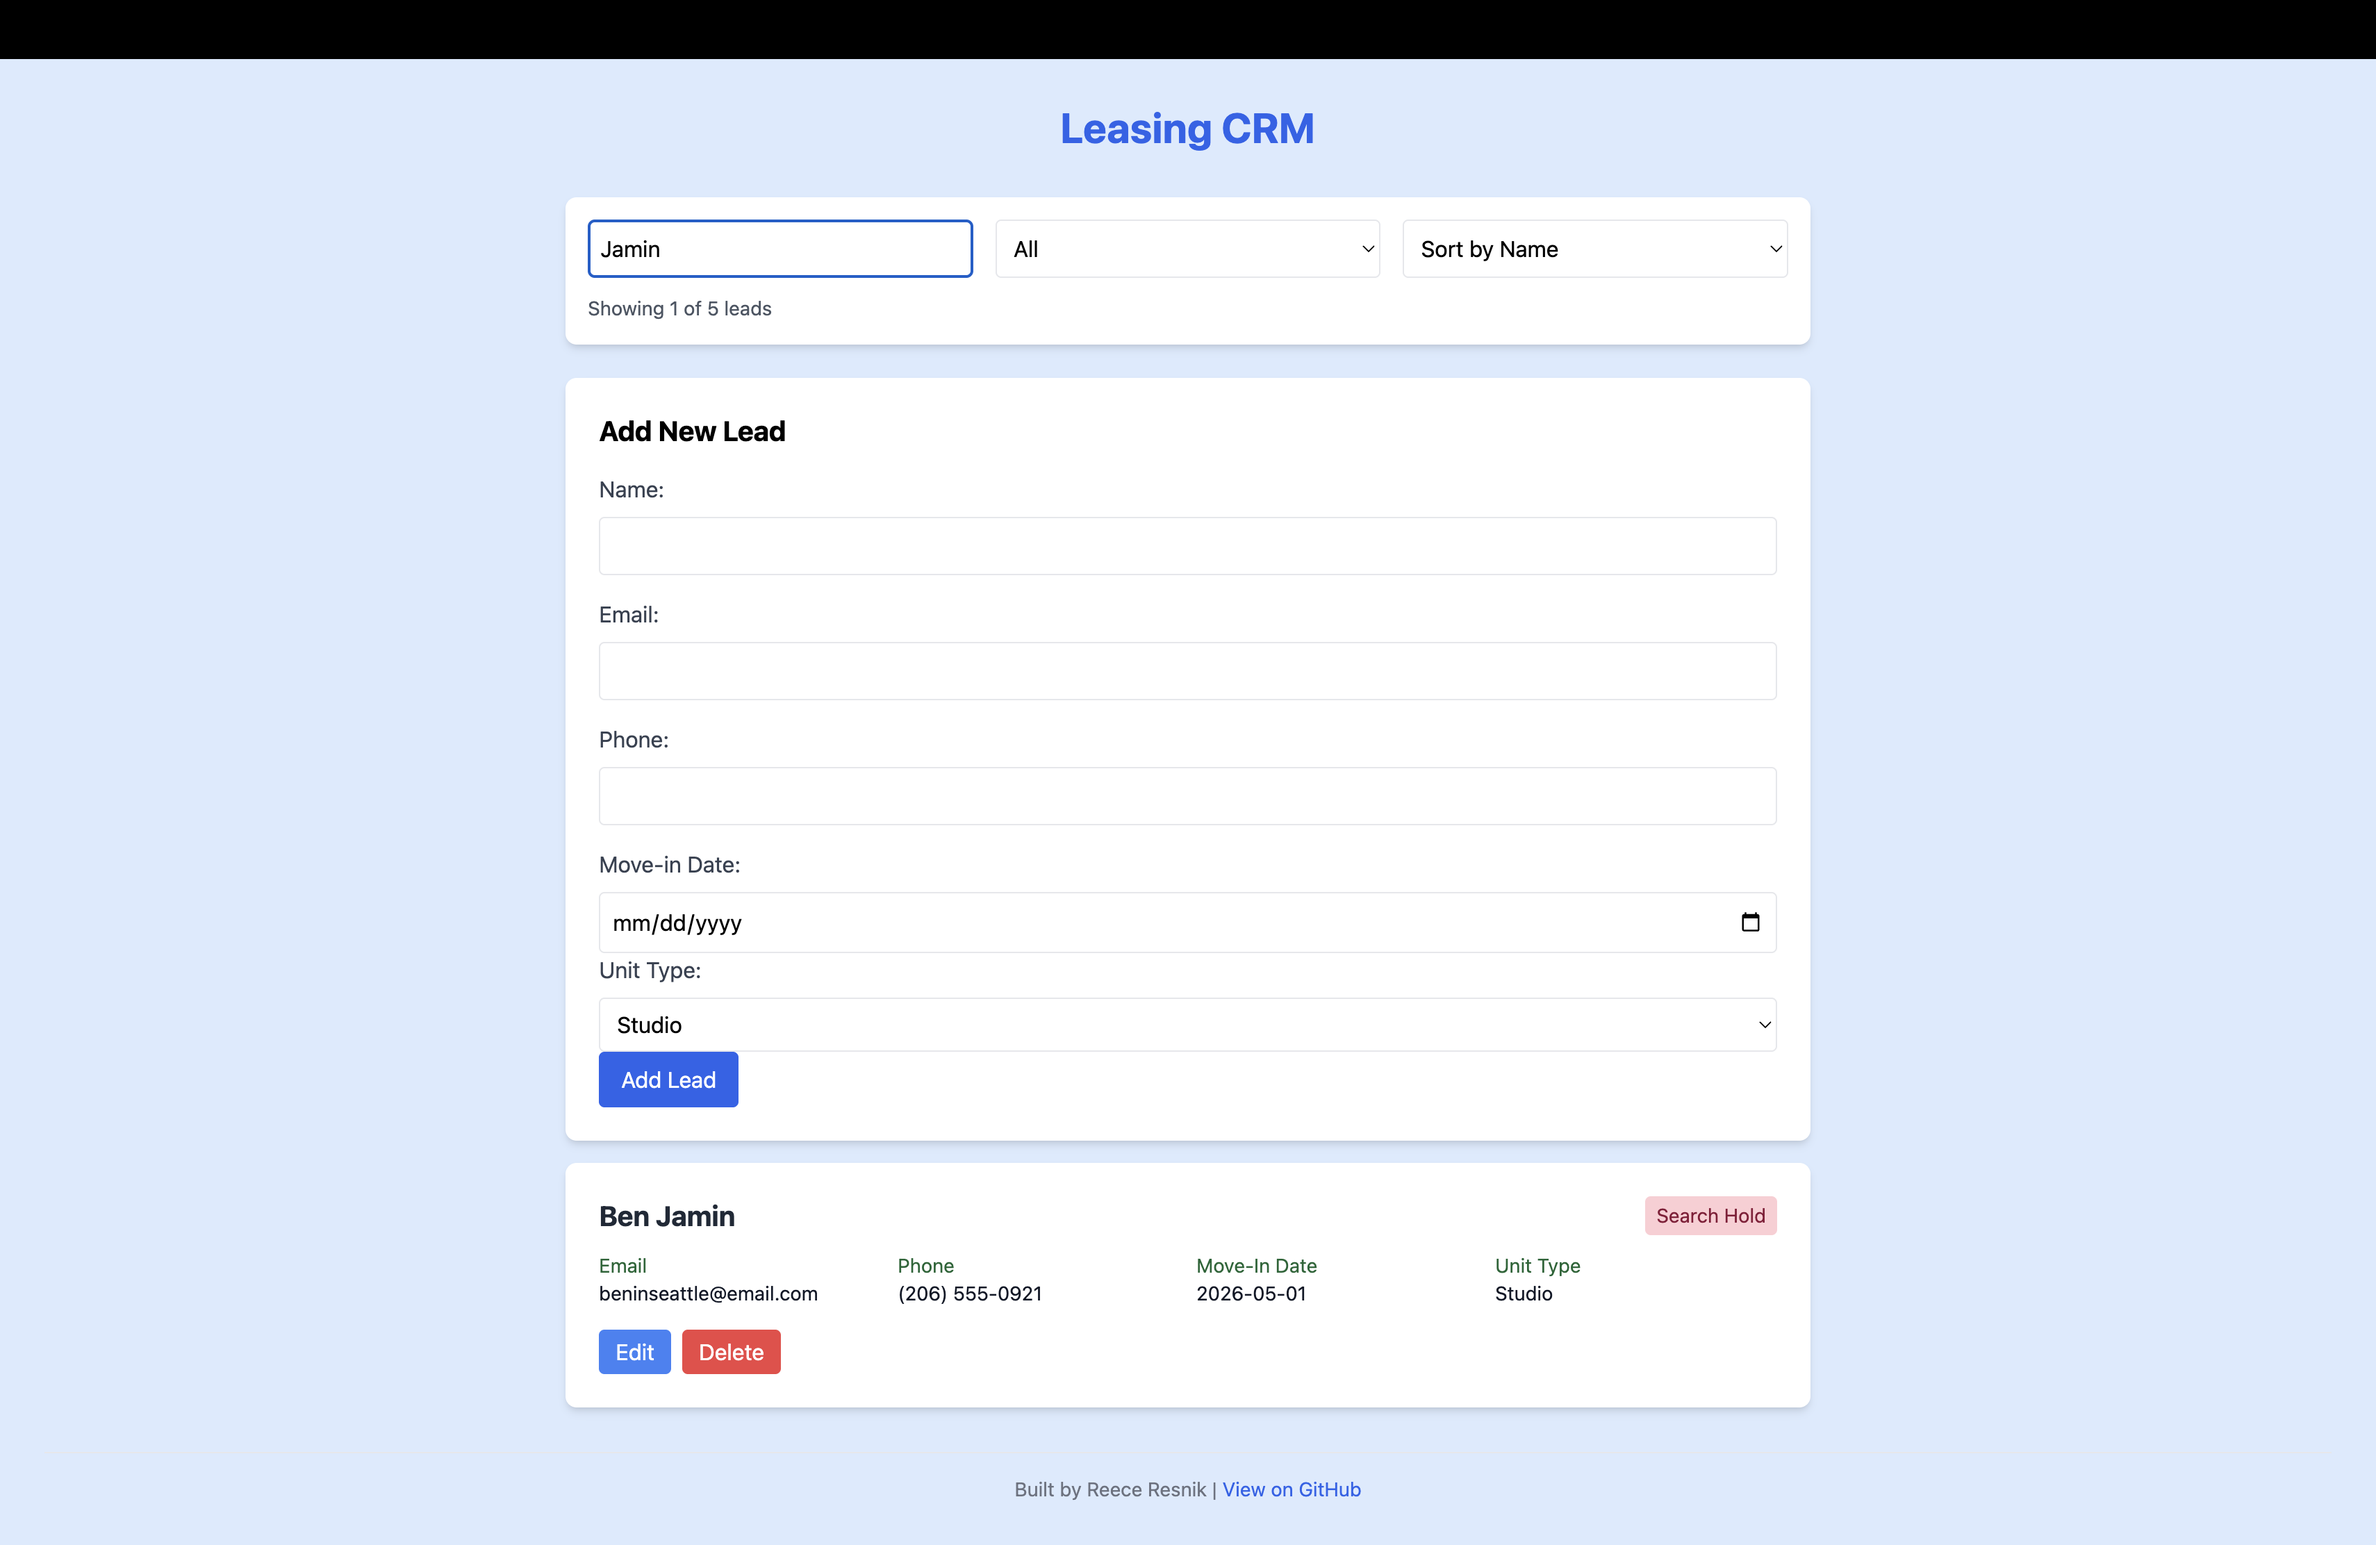
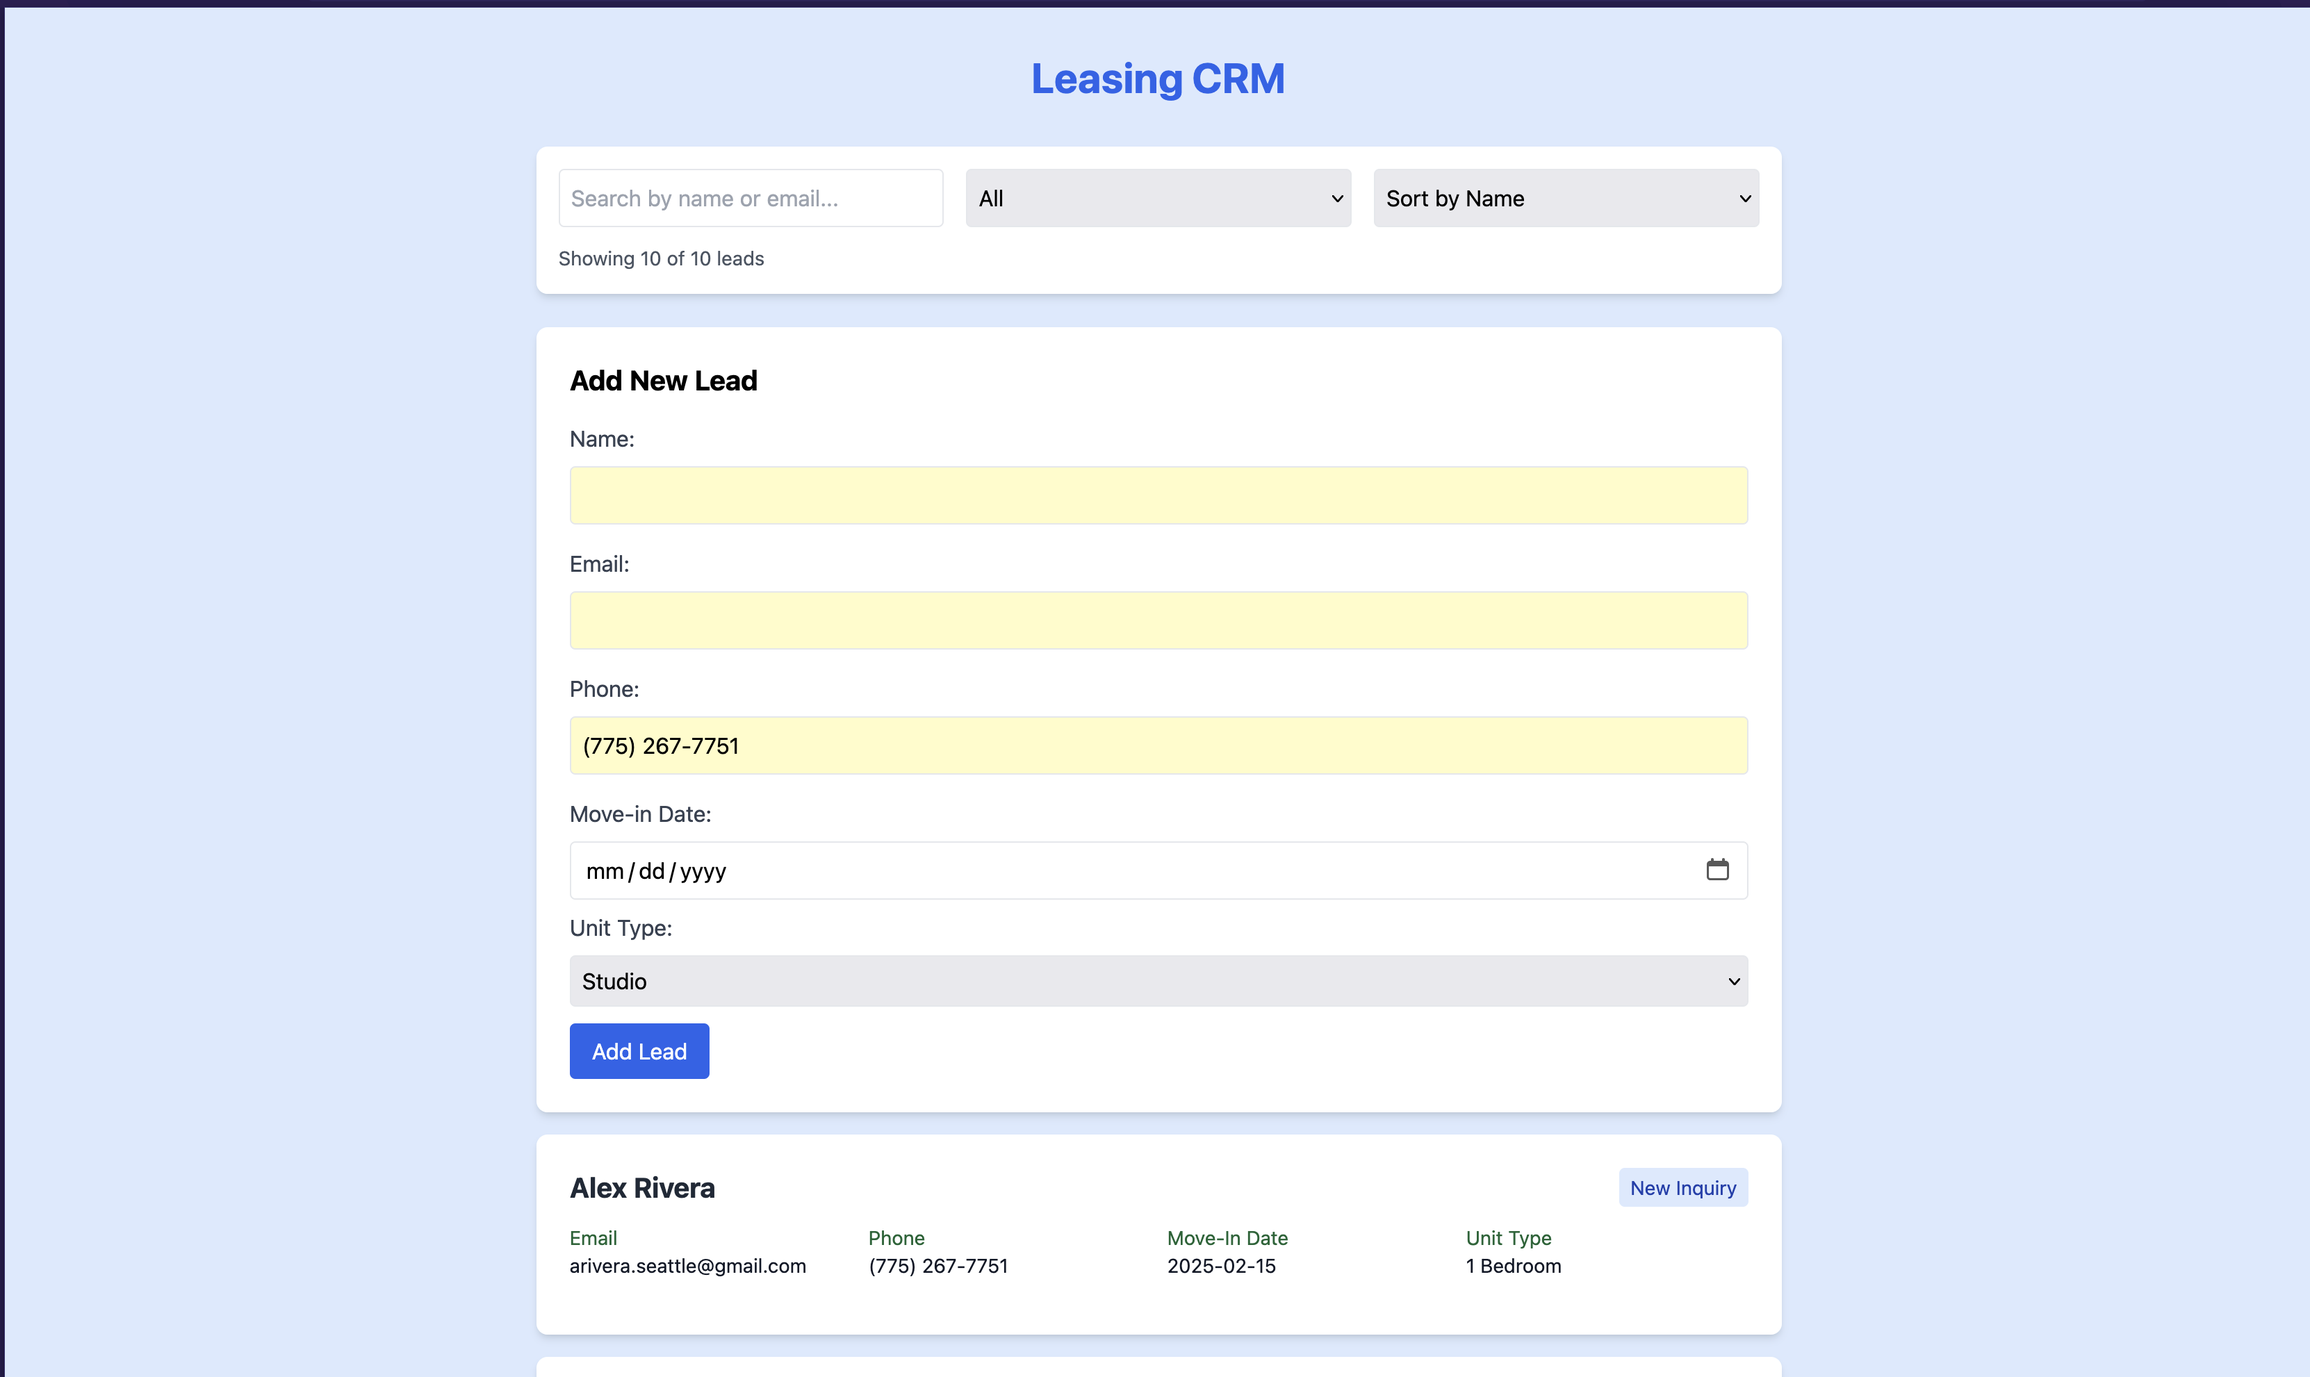
Added phone number formatter and cleaned up LeadModals

Changed region(s): [[0.0, 0.0, 1.0, 1.0]]

diff --git a/src/components/AddLeadForm.jsx b/src/components/AddLeadForm.jsx
@@ -1,6 +1,8 @@
 // src/components/AddLeadForm.jsx
 import { useState } from 'react';
 
+import PhoneInput from './PhoneInput';
+
 function AddLeadForm({ onAddLead }) {
     // Create state for form inputs
     const [name, setName] = useState('');
@@ -9,19 +11,24 @@ function AddLeadForm({ onAddLead }) {
     const [moveInDate, setMoveInDate] = useState('');
     const [unitType, setUnitType] = useState('');
 
+    const handlePhoneChange = (e) => {
+        const formatted = formatPhoneNumber(e.target.value);
+        setPhone(formatted);
+    };
+
     const handleSubmit = (e) => {
         e.preventDefault(); // Prevent page refresh
 
-        
+
         // create a new lead
         const newLead = {
-          
-            name: name,       
-            email: email,  
-            phone: phone,   
-            status: "New Inquiry",  
+
+            name: name,
+            email: email,
+            phone: phone,
+            status: "New Inquiry",
             moveInDate: moveInDate,
-            unitType: unitType  
+            unitType: unitType
         };
         //set state values
         onAddLead(newLead);
@@ -60,38 +67,36 @@ function AddLeadForm({ onAddLead }) {
             </div>
             <div className="mb-4">
                 <label className="block text-gray-700 mb-2">Phone:</label>
-                <input
-                    type="phone"
+                <PhoneInput
                     value={phone}
                     onChange={(e) => setPhone(e.target.value)}
-                    className="w-full p-2 border rounded"
                     required
                 />
             </div>
-            
+
             <div>
-                    <label className="block text-gray-700 mb-2">Move-in Date:</label>
-                    <input
-                        type="date"
-                        value={moveInDate}
-                        onChange={(e) => setMoveInDate(e.target.value)}
-                        className="w-full p-2 border rounded"
-                    />
-                </div>
-                
-                <div>
-                    <label className="block text-gray-700 mb-2">Unit Type:</label>
-                    <select
-                        value={unitType}
-                        onChange={(e) => setUnitType(e.target.value)}
-                        className="w-full p-2 border rounded"
-                    >
-                        <option value="Studio">Studio</option>
-                        <option value="1 Bedroom">1 Bedroom</option>
-                        <option value="2 Bedroom">2 Bedroom</option>
-                        <option value="3 Bedroom">3 Bedroom</option>
-                    </select>
-                </div>
+                <label className="block text-gray-700 mb-2">Move-in Date:</label>
+                <input
+                    type="date"
+                    value={moveInDate}
+                    onChange={(e) => setMoveInDate(e.target.value)}
+                    className="w-full p-2 border rounded mb-2"
+                />
+            </div>
+
+            <div>
+                <label className="block text-gray-700 mb-2 ">Unit Type:</label>
+                <select
+                    value={unitType}
+                    onChange={(e) => setUnitType(e.target.value)}
+                    className="w-full p-2 border rounded mb-3"
+                >
+                    <option value="Studio">Studio</option>
+                    <option value="1 Bedroom">1 Bedroom</option>
+                    <option value="2 Bedroom">2 Bedroom</option>
+                    <option value="3 Bedroom">3 Bedroom</option>
+                </select>
+            </div>
 
             <button
                 type="submit"

diff --git a/src/utils/phoneUtils.js b/src/utils/phoneUtils.js
@@ -1,0 +1,98 @@
+import { parsePhoneNumber, getCountryCodeForRegionCode } from 'awesome-phonenumber';
+
+// Format phone number as user types
+export const formatPhoneInput = (value, countryCode = 'US') => {
+  try {
+    // Parse the phone number with country context
+    const pn = parsePhoneNumber(value, { regionCode: countryCode });
+    
+    if (pn.valid) {
+      // Return formatted national number for valid numbers
+      return pn.number.national;
+    } else if (value.length > 0) {
+      // For partial numbers, do basic formatting
+      const digits = value.replace(/\D/g, '');
+      if (countryCode === 'US' && digits.length <= 10) {
+        return formatUSPartial(digits);
+      }
+      return value;
+    }
+    return '';
+  } catch (error) {
+    return value;
+  }
+};
+
+// Helper for partial US numbers while typing
+const formatUSPartial = (digits) => {
+  if (digits.length === 0) return '';
+  if (digits.length <= 3) return `(${digits}`;
+  if (digits.length <= 6) return `(${digits.slice(0, 3)}) ${digits.slice(3)}`;
+  return `(${digits.slice(0, 3)}) ${digits.slice(3, 6)}-${digits.slice(6, 10)}`;
+};
+
+// Validate phone number
+export const validatePhone = (value, countryCode = 'US') => {
+  try {
+    const pn = parsePhoneNumber(value, { regionCode: countryCode });
+    return pn.valid;
+  } catch {
+    return false;
+  }
+};
+
+// Get clean number for storage (E.164 format)
+export const getE164Format = (value, countryCode = 'US') => {
+  try {
+    const pn = parsePhoneNumber(value, { regionCode: countryCode });
+    if (pn.valid) {
+      return pn.number.e164; // Returns format like "+12065551234"
+    }
+    return value;
+  } catch {
+    return value;
+  }
+};
+
+// Format for display (from stored E.164)
+export const formatForDisplay = (value, style = 'national') => {
+  try {
+    const pn = parsePhoneNumber(value);
+    if (pn.valid) {
+      return style === 'international' ? pn.number.international : pn.number.national;
+    }
+    return value;
+  } catch {
+    return value;
+  }
+};
+
+// Get suggested formats based on partial input
+export const getSuggestedFormats = (value) => {
+  const suggestions = [];
+  
+  // Try parsing as US number
+  const usPhone = parsePhoneNumber(value, { regionCode: 'US' });
+  if (usPhone.possibility !== 'invalid') {
+    suggestions.push({
+      country: 'US',
+      formatted: usPhone.number.national || value,
+      valid: usPhone.valid
+    });
+  }
+  
+  // Try other common formats for Seattle area
+  if (value.startsWith('+')) {
+    // Try international format
+    const intlPhone = parsePhoneNumber(value);
+    if (intlPhone.possibility !== 'invalid') {
+      suggestions.push({
+        country: intlPhone.regionCode,
+        formatted: intlPhone.number.international,
+        valid: intlPhone.valid
+      });
+    }
+  }
+  
+  return suggestions;
+};

diff --git a/src/components/PhoneInput.jsx b/src/components/PhoneInput.jsx
@@ -1,0 +1,66 @@
+import { useState, useEffect } from 'react';
+import { formatPhoneInput, validatePhone, getE164Format } from '../utils/phoneUtils';
+
+function PhoneInput({ 
+  value, 
+  onChange, 
+  placeholder = "(206) 555-1234",
+  required = false,
+  className = "w-full p-2 border rounded",
+  countryCode = 'US'
+}) {
+  const [displayValue, setDisplayValue] = useState('');
+  const [isValid, setIsValid] = useState(true);
+  const [isFocused, setIsFocused] = useState(false);
+
+  useEffect(() => {
+    // Format the value for display
+    if (value) {
+      setDisplayValue(formatPhoneInput(value, countryCode));
+    }
+  }, [value, countryCode]);
+
+  const handleChange = (e) => {
+    const input = e.target.value;
+    const formatted = formatPhoneInput(input, countryCode);
+    setDisplayValue(formatted);
+    
+    // Validate the phone number
+    const valid = validatePhone(formatted, countryCode);
+    setIsValid(valid || input.length < 10);
+    
+    // Pass the E.164 format to parent for storage
+    const e164 = getE164Format(formatted, countryCode);
+    onChange({ target: { value: valid ? e164 : formatted } });
+  };
+
+  const handleBlur = () => {
+    setIsFocused(false);
+    // Final validation on blur
+    if (displayValue) {
+      const valid = validatePhone(displayValue, countryCode);
+      setIsValid(valid);
+    }
+  };
+
+  return (
+    <div className="relative">
+      <input
+        type="tel"
+        value={displayValue}
+        onChange={handleChange}
+        onFocus={() => setIsFocused(true)}
+        onBlur={handleBlur}
+        placeholder={placeholder}
+        className={`${className} ${!isValid && !isFocused && displayValue ? 'border-red-500' : ''}`}
+        required={required}
+        autoComplete="tel"
+      />
+      {!isValid && !isFocused && displayValue && (
+        <p className="text-red-500 text-xs mt-1">Please enter a valid phone number</p>
+      )}
+    </div>
+  );
+}
+
+export default PhoneInput;

diff --git a/src/components/LeadCard.jsx b/src/components/LeadCard.jsx
@@ -1,6 +1,8 @@
 import { useState } from 'react';
+// import { formatPhoneNumber } from '../utils/formatters';
+import { formatForDisplay } from '../utils/phoneUtils';
 
-function LeadCard({ lead, name, email, phone, status, moveInDate, unitType, onDelete, onEdit, onCardClick }) {
+function LeadCard({ lead, name, email, phone, status, moveInDate, unitType, onEdit, onCardClick }) {
   const [isEditing, setIsEditing] = useState(false);
   const [editStatus, setEditStatus] = useState(status);
   const [editName, setEditName] = useState(name);
@@ -8,6 +10,7 @@ function LeadCard({ lead, name, email, phone, status, moveInDate, unitType, onDe
   const [editPhone, setEditPhone] = useState(phone);
   const [editMoveInDate, setEditMoveInDate] = useState(moveInDate);
   const [editUnitType, setEditUnitType] = useState(unitType);
+  
 
   const statusOptions = [
     "New Inquiry",
@@ -159,7 +162,7 @@ function LeadCard({ lead, name, email, phone, status, moveInDate, unitType, onDe
         </div>
         <div>
           <p className='text-green-800'>Phone</p>
-          <p className='text-gray-900'>{phone}</p>
+          <p className='text-gray-900'>{formatForDisplay(phone)}</p>
         </div>
         <div>
           <p className='text-green-800'>Move-In Date</p>

diff --git a/src/components/LeadModal.jsx b/src/components/LeadModal.jsx
@@ -1,8 +1,12 @@
 import { useState } from 'react';
 
+import PhoneInput from './PhoneInput';
+import { formatForDisplay } from '../utils/phoneUtils';
+
 function LeadModal({ lead, isOpen, onClose, onSave, onDelete }) {
     const [editedLead, setEditedLead] = useState({
         ...lead,
+        phone: lead?.phone ? formatForDisplay(lead.phone) : "",
         occupants: lead?.occupants || 1,
         pets: lead?.pets || "",
         notes: lead?.notes || "",
@@ -49,11 +53,9 @@ function LeadModal({ lead, isOpen, onClose, onSave, onDelete }) {
                         </div>
                         <div>
                             <label className="block text-sm font-medium text-gray-700">Phone</label>
-                            <input
-                                type="tel"
+                            <PhoneInput
                                 value={editedLead.phone}
                                 onChange={(e) => setEditedLead({ ...editedLead, phone: e.target.value })}
-                                className="mt-1 w-full p-2 border rounded"
                             />
                         </div>
                     </div>

diff --git a/src/App.jsx b/src/App.jsx
@@ -5,7 +5,7 @@ import { collection, addDoc, updateDoc, deleteDoc, doc, onSnapshot } from 'fireb
 import { db } from './firebase';
 // import Dashboard from './components/Dashboard';
 import LeadModal from './components/LeadModal';
-import { seedDatabase } from './seedDatabase';
+// import { seedDatabase } from './seedDatabase';
 
 function App() {
 

diff --git a/README.md b/README.md
@@ -10,7 +10,7 @@ A modern CRM system built specifically for apartment leasing professionals, feat
 - **Status Tracking**: Monitor leads through the leasing pipeline (New Inquiry → Tour → Application → Leased)
 - **Search & Filter**: Find leads quickly by name, email, or status
 - **Smart Sorting**: Organize leads by name or status
-- **Data Persistence**: All data saved locally using browser storage
+- **Data Persistence**: All data saved on a Firebase database
 - **Responsive Design**: Works seamlessly on desktop and mobile devices
 - **Real-time Updates**: Instant search and filter results as you type
 
@@ -20,8 +20,8 @@ A modern CRM system built specifically for apartment leasing professionals, feat
 - **Vite** - Lightning-fast build tool and development server
 - **Tailwind CSS v3** - Utility-first CSS framework
 - **JavaScript ES6+** - Modern JavaScript features
-- **Local Storage API** - Client-side data persistence
 - **Vercel** - Prototype deployment
+- **Firebase** - Server side data persistence
 
 ## 🤓 Knowledge Used So Far
 - CRUD Operations
@@ -96,13 +96,12 @@ The CRM tracks leads through these stages:
 ## 🔜 Future Enhancements
 
 - [ ] Dashboard with conversion analytics
-- [ ] Backend API integration (Node.js/Express)
+- [X] Backend API integration (Firebase)
 - [ ] User authentication and multi-user support
 - [ ] Email integration for automated follow-ups
 - [ ] Export leads to CSV/Excel
-- [ ] Multi-property support
 - [ ] Calendar integration for tour scheduling
-- [ ] Notes and communication history
+- [\] Notes and communication history
 - [ ] Advanced reporting and metrics
 
 ## 🤝 Contributing
